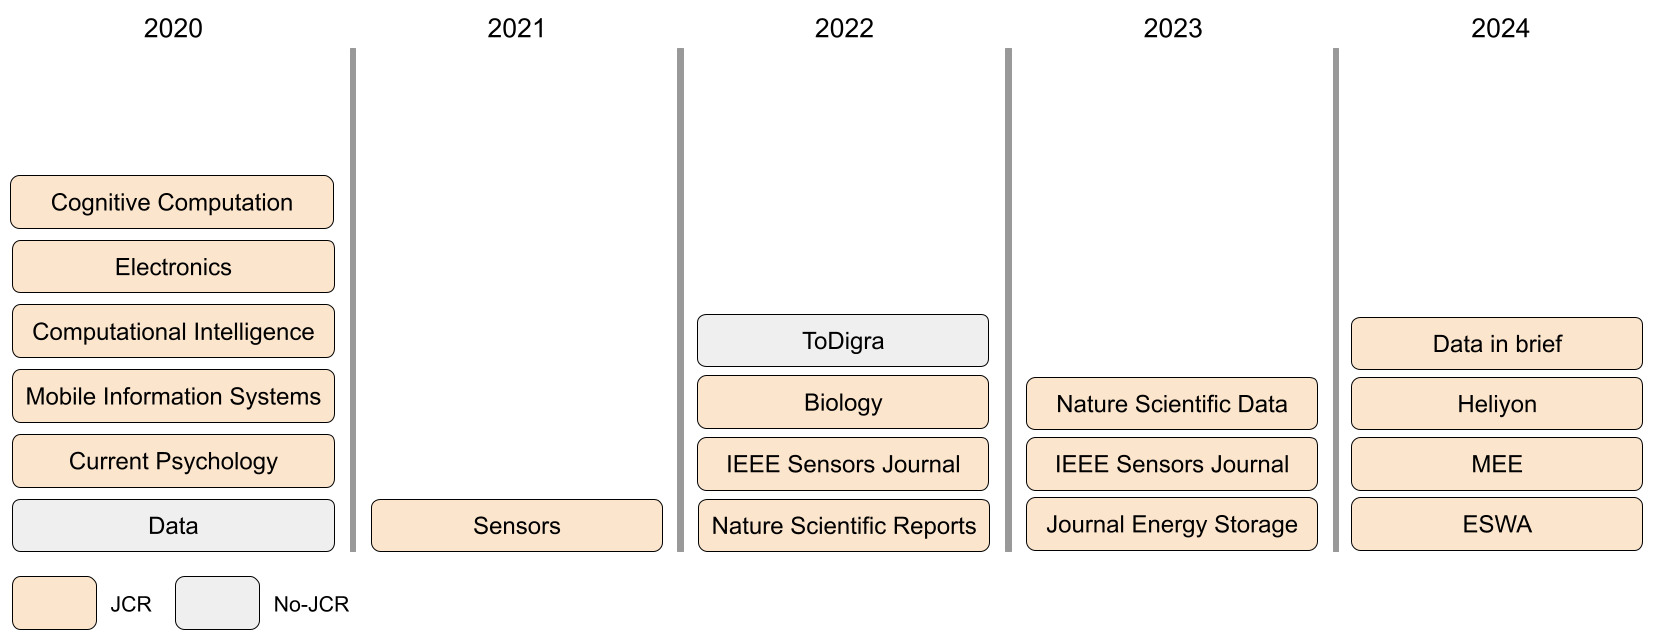
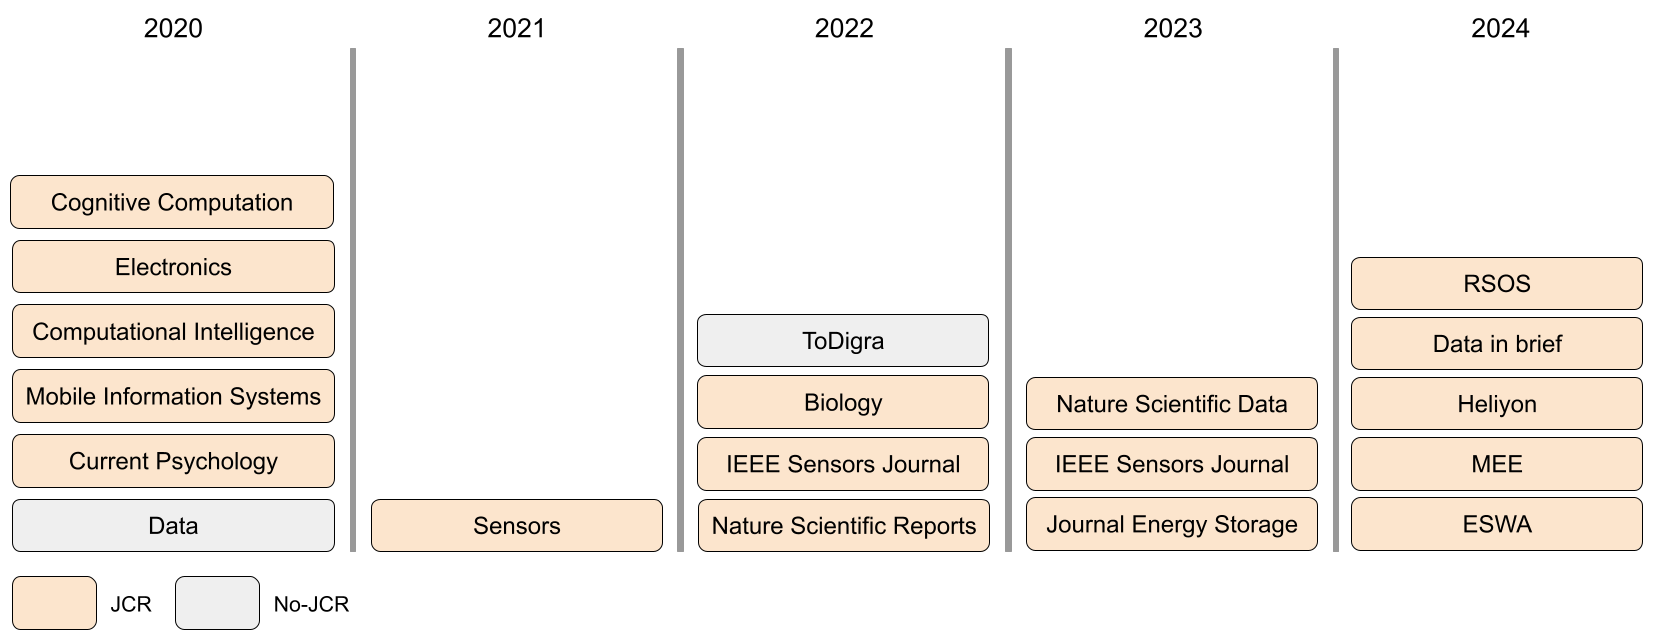
pubs + seminars

Changed region(s): [[0.7993, 0.3884, 1.0, 0.5079]]

diff --git a/seminars.html b/seminars.html
@@ -83,6 +83,30 @@
 			</div>
 
 			<div class="row">
+				<div class="col-md-4">
+					<div class="fh5co-blog animate-box">
+						<a href="#" class="blog-bg" style="background-image: url(seminars/image041224.png);"></a>
+						<div class="blog-text">
+							<span class="posted_on">December 4th, 2024 14:30 NB4302DL</span>
+							<h3>What is beautiful is still good: the attractiveness halo effect in the era of beauty filters</h3>
+							<p>Marina García</p>
+						</div> 
+					</div>
+				</div>
+
+							<div class="col-md-4">
+					<div class="fh5co-blog animate-box">
+						<a href="#" class="blog-bg" style="background-image: url(seminars/image271124.jpg);"></a>
+						<div class="blog-text">
+							<span class="posted_on">November 27th, 2024 14:30 NB4302DL</span>
+							<h3>Understanding Human Perception of Rotations in Natural Images</h3>
+							<p>David Agost</p>
+						</div> 
+					</div>
+				</div>
+			</div>
+
+			<div class="row">
 
 			<div class="col-md-4">
 					<div class="fh5co-blog animate-box">

diff --git a/publications.html b/publications.html
@@ -114,6 +114,15 @@
 				</div>
 			</div>
 
+
+		<div class="row animate-box">
+				<div class="col-md-8 col-md-offset-2 text-center heading-section">
+					<p>Aditya Gulati, Marina Martínez-Garcia, Daniel Fernández, Miguel Angel Lozano, Bruno Lepri and Nuria Oliver. 
+					<b>What is beautiful is still good: the attractiveness halo effect in the era of beauty filters</b>.
+					Royal Society Open Science, vol 11, issue 11, 2024. <a href="https://doi.org/10.1098/rsos.240882">https://doi.org/10.1098/rsos.240882</a>.
+				</div>
+		</div>
+
 		<div class="row animate-box">
 				<div class="col-md-8 col-md-offset-2 text-center heading-section">
 					<p>Raul Montoliu, Pere Urbón-Bayes, Gabriel Daza, Abraham Batalla-Gavalda. 
